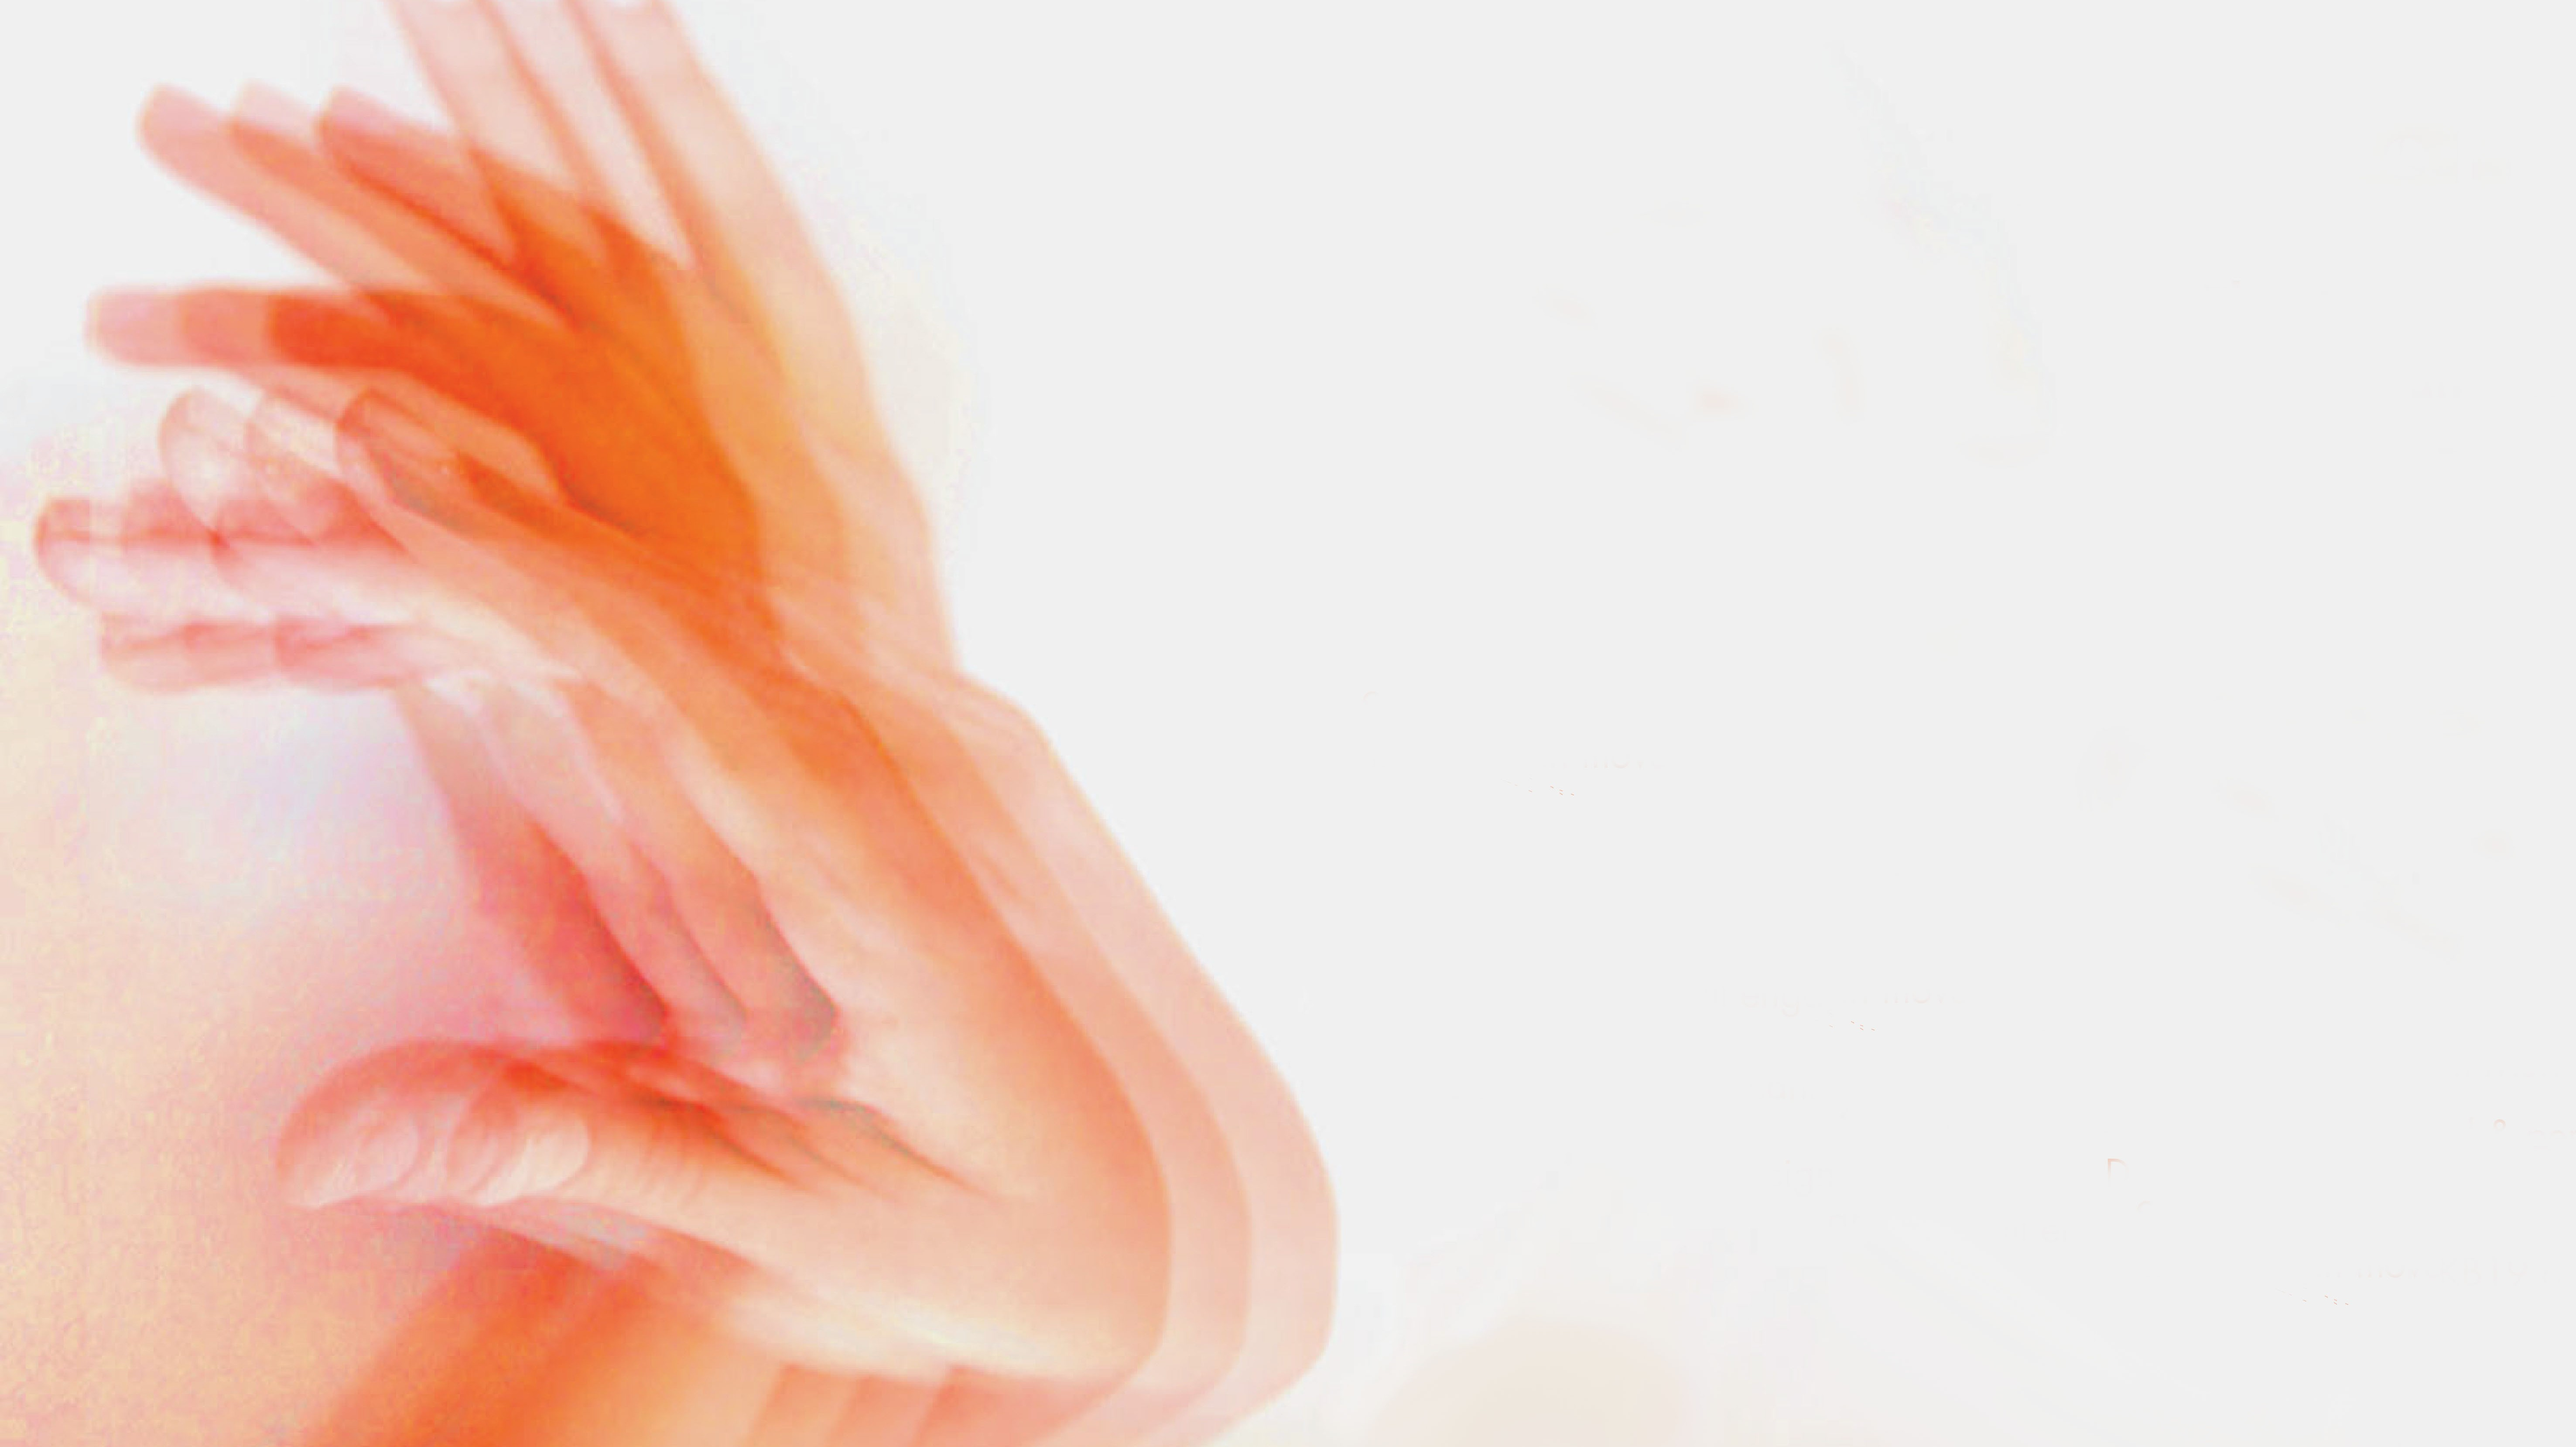
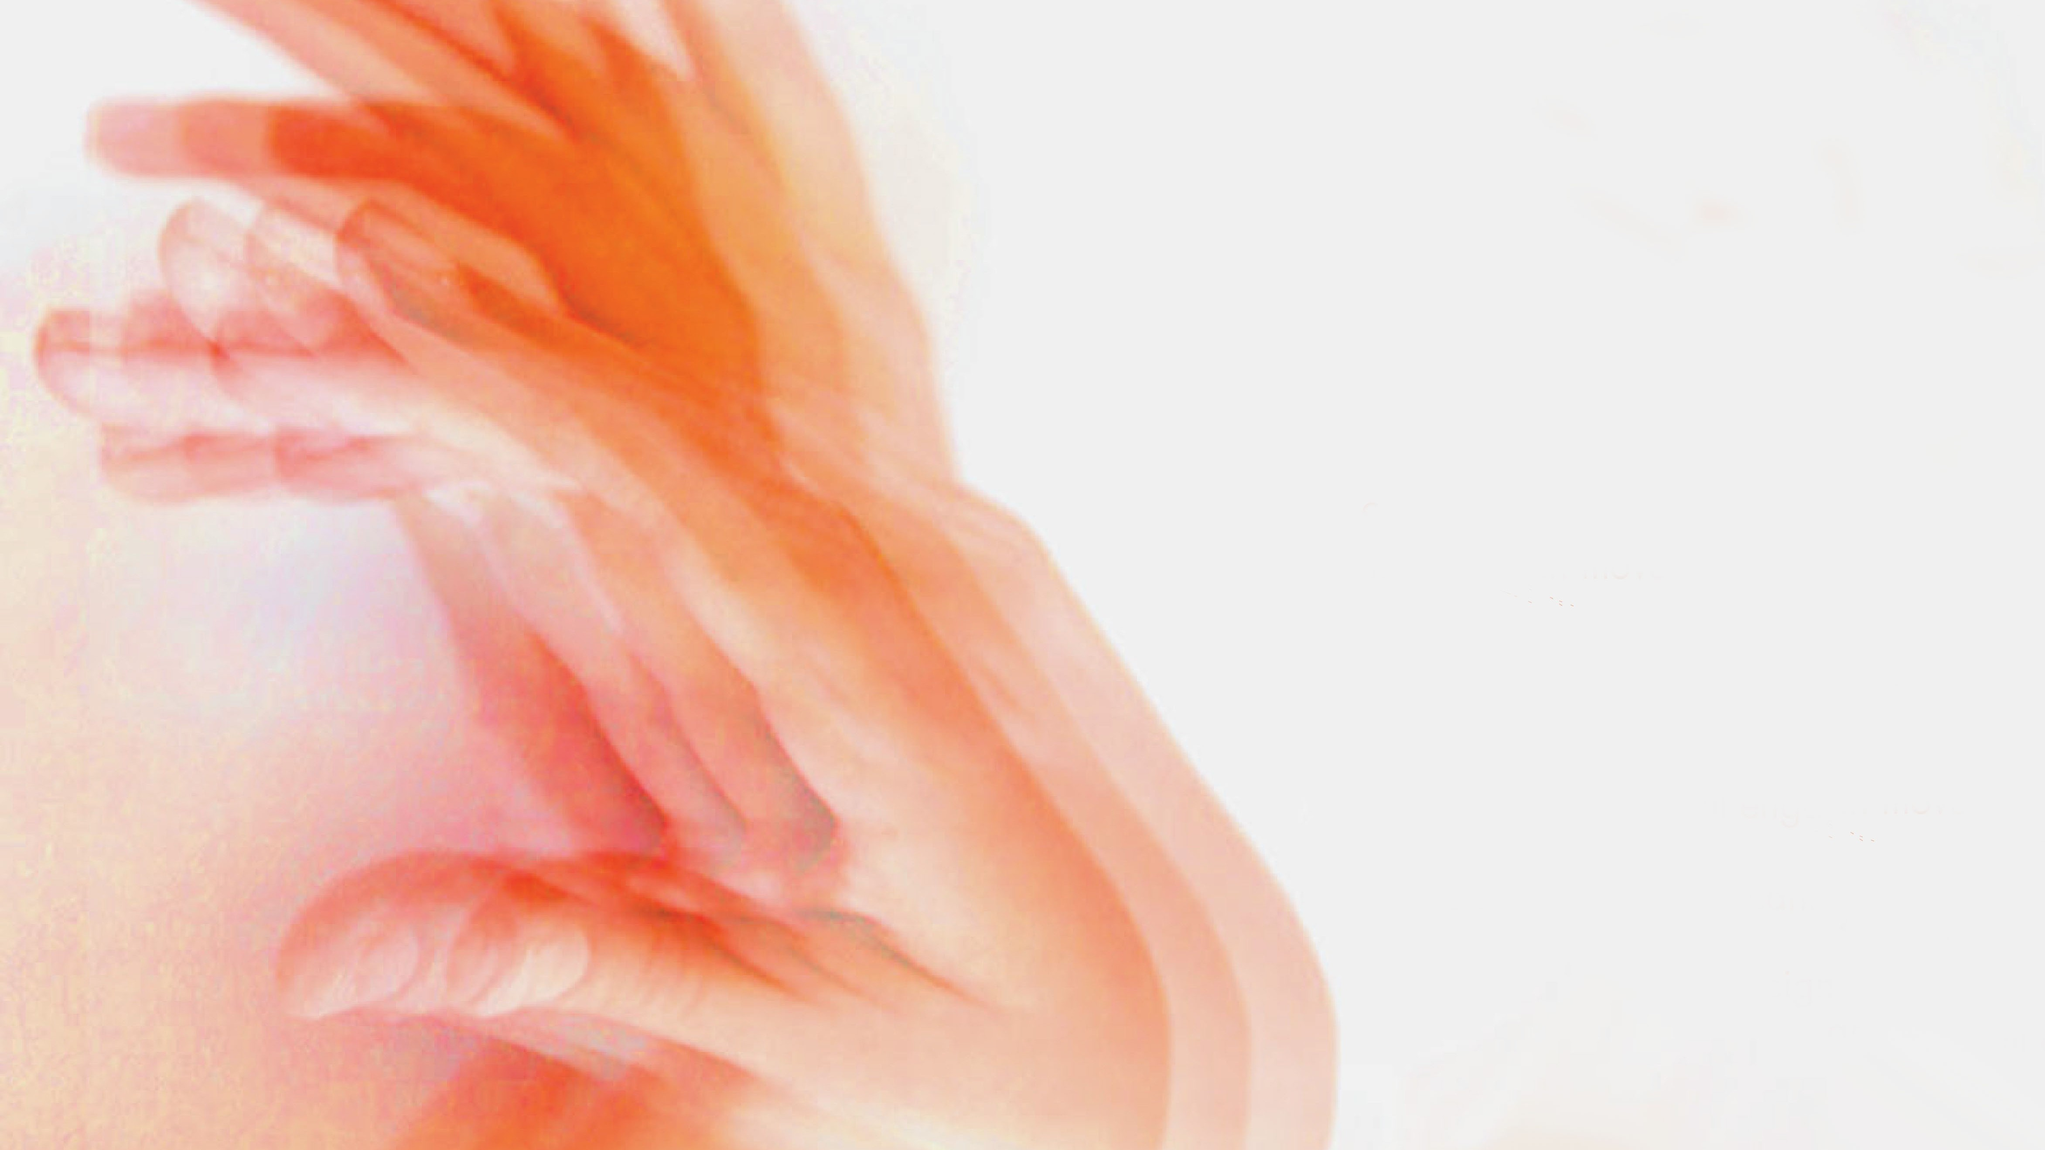
Fixed bg and added home text

diff --git a/docs/README.md b/docs/README.md
@@ -1,47 +1,7 @@
 ---
-title: Documentation
+title: Archive
 description: >
-  Here you should be able to find everything you need to know to accomplish the most common tasks when blogging with Hydejack.
+  Here is an archive of our soundcloud and instagram posts
 hide_description: true
 sitemap: false
 ---
-
-Here you should be able to find everything you need to know to accomplish the most common tasks when blogging with Hydejack.
-Should you think something is missing, [please let me know](mailto:mail@qwtel.com).
-Should you discover a mistake in the docs (or a bug in general) feel free to [open an issue](https://github.com/hydecorp/hydejack/issues) on GitHub.
-
-While this manual tries to be beginner-friendly, as a user of Jekyll it is assumed that you are comfortable running shell commands and editing text files.
-{:.note}
-
-
-## Getting started
-* [Install]{:.heading.flip-title} --- How to install and run Hydejack.
-* [Upgrade]{:.heading.flip-title} --- You can skip this if you haven't used Hydejack before.
-* [Config]{:.heading.flip-title} --- Once Jekyll is running you can start editing your config file.
-{:.related-posts.faded}
-
-## Using Hydejack
-* [Basics]{:.heading.flip-title} --- How to add different types of content.
-* [Writing]{:.heading.flip-title} --- Producing markdown content for Hydejack.
-* [Scripts]{:.heading.flip-title} --- How to include 3rd party scripts on your site.
-* [Build]{:.heading.flip-title} --- How to build the static files for deployment.
-* [Advanced]{:.heading.flip-title} --- Guides for more advanced tasks.
-{:.related-posts.faded}
-
-## Other
-* [LICENSE]{:.heading.flip-title} --- The license of this project.
-* [NOTICE]{:.heading.flip-title} --- Parts of this program are provided under separate licenses.
-* [CHANGELOG]{:.heading.flip-title} --- Version history of Hydejack.
-{:.related-posts.faded}
-
-[install]: install.md
-[upgrade]: upgrade.md
-[config]: config.md
-[basics]: basics.md
-[writing]: writing.md
-[scripts]: scripts.md
-[build]: build.md
-[advanced]: advanced.md
-[LICENSE]: ../LICENSE.md
-[NOTICE]: ../NOTICE.md
-[CHANGELOG]: ../CHANGELOG.md

diff --git a/docs/Readme_archive.md b/docs/Readme_archive.md
@@ -1,0 +1,47 @@
+---
+title: Archive
+description: >
+  Here you should be able to find everything you need to know to accomplish the most common tasks when blogging with Hydejack.
+hide_description: true
+sitemap: false
+---
+
+Here you should be able to find everything you need to know to accomplish the most common tasks when blogging with Hydejack.
+Should you think something is missing, [please let me know](mailto:mail@qwtel.com).
+Should you discover a mistake in the docs (or a bug in general) feel free to [open an issue](https://github.com/hydecorp/hydejack/issues) on GitHub.
+
+While this manual tries to be beginner-friendly, as a user of Jekyll it is assumed that you are comfortable running shell commands and editing text files.
+{:.note}
+
+
+## Getting started
+* [Install]{:.heading.flip-title} --- How to install and run Hydejack.
+* [Upgrade]{:.heading.flip-title} --- You can skip this if you haven't used Hydejack before.
+* [Config]{:.heading.flip-title} --- Once Jekyll is running you can start editing your config file.
+{:.related-posts.faded}
+
+## Using Hydejack
+* [Basics]{:.heading.flip-title} --- How to add different types of content.
+* [Writing]{:.heading.flip-title} --- Producing markdown content for Hydejack.
+* [Scripts]{:.heading.flip-title} --- How to include 3rd party scripts on your site.
+* [Build]{:.heading.flip-title} --- How to build the static files for deployment.
+* [Advanced]{:.heading.flip-title} --- Guides for more advanced tasks.
+{:.related-posts.faded}
+
+## Other
+* [LICENSE]{:.heading.flip-title} --- The license of this project.
+* [NOTICE]{:.heading.flip-title} --- Parts of this program are provided under separate licenses.
+* [CHANGELOG]{:.heading.flip-title} --- Version history of Hydejack.
+{:.related-posts.faded}
+
+[install]: install.md
+[upgrade]: upgrade.md
+[config]: config.md
+[basics]: basics.md
+[writing]: writing.md
+[scripts]: scripts.md
+[build]: build.md
+[advanced]: advanced.md
+[LICENSE]: ../LICENSE.md
+[NOTICE]: ../NOTICE.md
+[CHANGELOG]: ../CHANGELOG.md

diff --git a/index.md b/index.md
@@ -5,19 +5,18 @@ sitemap: false
 cover: true
 ---
 
-Thank you for visiting the Poesis Social Art webpage! 🎉
+## About Us
 
-Poiesis.socialart is a digital space that discusses and engages in social art practice, and it also hosts workshops around the themes of inclusion and social justice to bridge fieldwork with research.
+Initially seeded in 2015 about our collective will to start a podcast that intersects our interests in art, Poiesis.SocialArt was founded August 2019. It is a digital academic archive run by us, visual artists/educators, Dania Shahkhan and Maha Minhaj, where we archive, curate and write about the practices of local and international socially engaged artists, in the form of visual media and academic podcasts.
+Instagram Handle: [@poiesis.socialart](https://www.instagram.com/poiesis.socialart/); Soundcloud Handle: [Poiesis.SocialArt](https://soundcloud.com/user-384729018)
 
-## Resume
-If you would like to find out more about us, you can have a look at our resumes, please click [Resume]{:.heading.flip-title}.
+## Goal
 
-## Projects
-If you would like to visit some of my projects, please click [Projects]{:.heading.flip-title}.
+The aim of this platform is to grow as a resource bank for students, practitioners and researchers.
+We also hope to eventually become a platform that enables creators and practitioners to pursue SEA in Pakistan and all around the world.
 
-[projects]: projects.md
-[resume]: resume.md
-[documentation]: docs/README.md
-[install]: docs/install.md
-[upgrade]: docs/upgrade.md
-[config]: docs/config.md
+### You can find out more about our projects, access resources or scroll through our archive via these link or from the sidebar
+
+- [projects](projects.md)
+- [resources](resources.md)
+- [archive](archive.md)
